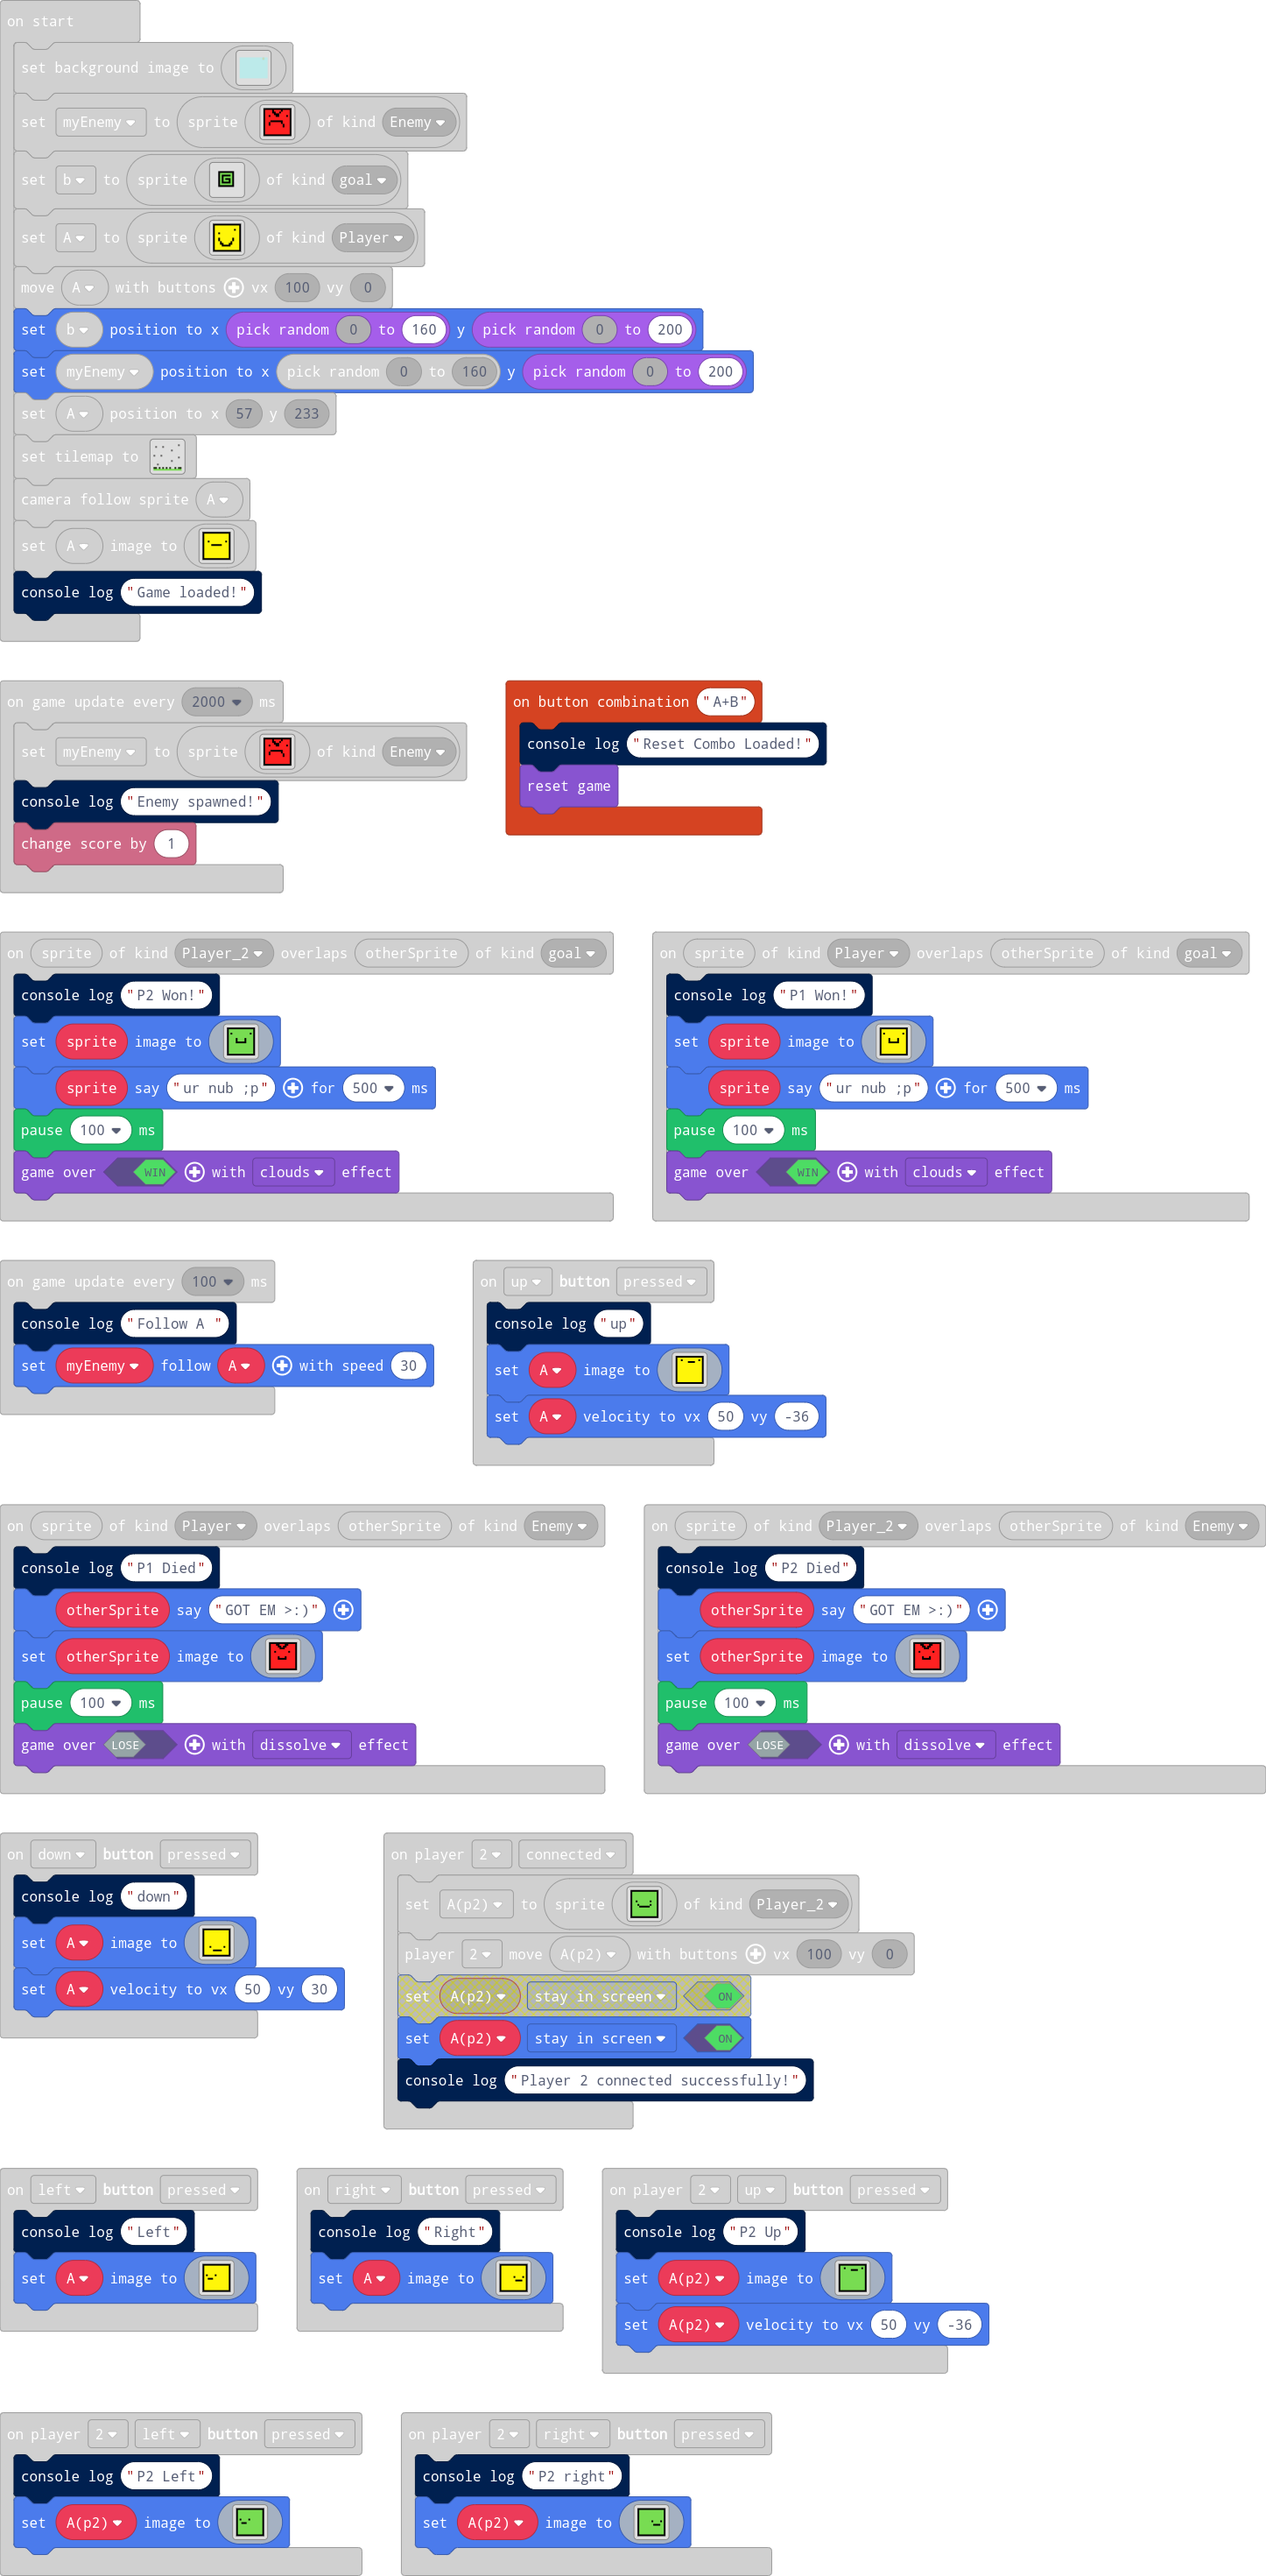
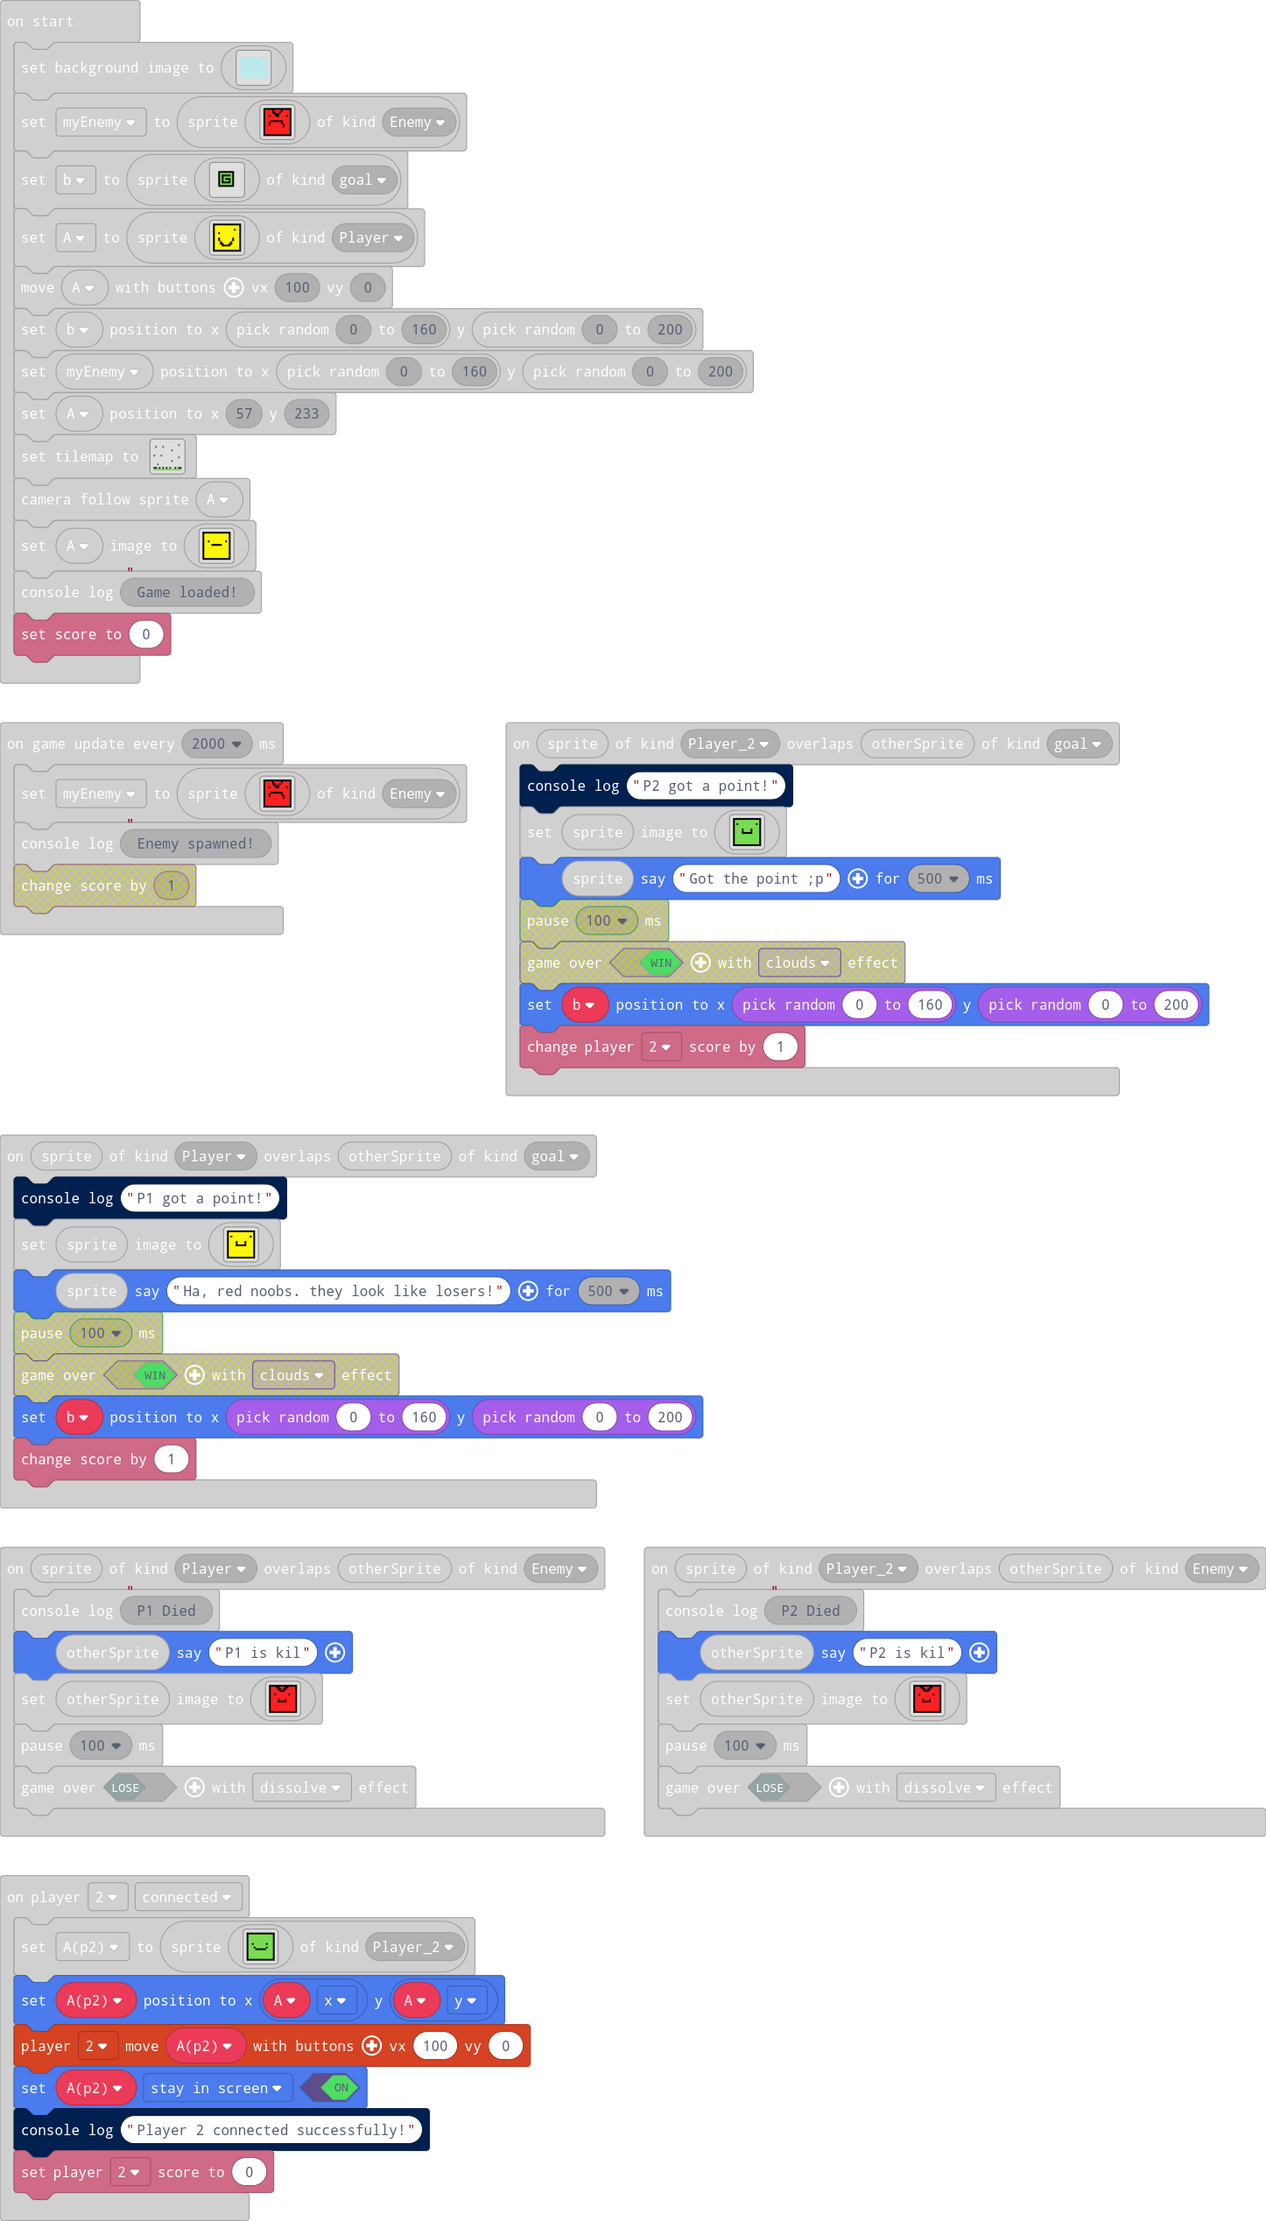
I upgraded the P2 spawning. And modified the old version of the game...

diff --git a/main.ts b/main.ts
@@ -202,9 +202,11 @@ f 7 7 7 7 7 7 7 7 7 7 7 7 7 7 f
 f 7 7 7 7 7 7 7 7 7 7 7 7 7 7 f 
 f f f f f f f f f f f f f f f f 
 `, SpriteKind.Player_2)
+    Ap2.setPosition(A.x, A.y)
     controller.player2.moveSprite(Ap2, 100, 0)
     Ap2.setFlag(SpriteFlag.StayInScreen, true)
     console.log("Player 2 connected successfully!")
+    info.player2.setScore(0)
 })
 controller.combos.attachCombo("A+B", function () {
     console.log("Reset Combo Loaded!")
@@ -212,7 +214,7 @@ controller.combos.attachCombo("A+B", function () {
 })
 sprites.onOverlap(SpriteKind.Player_2, SpriteKind.Enemy, function (sprite, otherSprite) {
     console.log("P2 Died")
-    otherSprite.say("GOT EM >:)")
+    otherSprite.say("P2 is kil")
     otherSprite.setImage(img`
 f f f f f f f f f f f f f f f f 
 f 2 2 2 f f 2 2 2 f f 2 2 2 2 f 
@@ -235,7 +237,7 @@ f f f f f f f f f f f f f f f f
     game.over(false)
 })
 sprites.onOverlap(SpriteKind.Player_2, SpriteKind.goal, function (sprite, otherSprite) {
-    console.log("P2 Won!")
+    console.log("P2 got a point!")
     sprite.setImage(img`
 f f f f f f f f f f f f f f f f 
 f 7 7 7 7 7 7 7 7 7 7 7 7 7 7 f 
@@ -254,9 +256,9 @@ f 7 7 7 7 7 7 7 7 7 7 7 7 7 7 f
 f 7 7 7 7 7 7 7 7 7 7 7 7 7 7 f 
 f f f f f f f f f f f f f f f f 
 `)
-    sprite.say("ur nub ;p")
-    pause(100)
-    game.over(true)
+    sprite.say("Got the point ;p", 500)
+    b.setPosition(Math.randomRange(0, 160), Math.randomRange(0, 200))
+    info.player2.changeScoreBy(1)
 })
 controller.player2.onButtonEvent(ControllerButton.Left, ControllerButtonEvent.Pressed, function () {
     console.log("P2 Left")
@@ -303,7 +305,7 @@ f f f f f f f f f f f f f f f f
 })
 sprites.onOverlap(SpriteKind.Player, SpriteKind.Enemy, function (sprite, otherSprite) {
     console.log("P1 Died")
-    otherSprite.say("GOT EM >:)")
+    otherSprite.say("P1 is kil")
     otherSprite.setImage(img`
 f f f f f f f f f f f f f f f f 
 f 2 2 2 f f 2 2 2 f f 2 2 2 2 f 
@@ -390,7 +392,7 @@ f f f f f f f f f f f f f f f f
     A.setVelocity(50, -36)
 })
 sprites.onOverlap(SpriteKind.Player, SpriteKind.goal, function (sprite, otherSprite) {
-    console.log("P1 Won!")
+    console.log("P1 got a point!")
     sprite.setImage(img`
 f f f f f f f f f f f f f f f f 
 f 5 5 5 5 5 5 5 5 5 5 5 5 5 5 f 
@@ -409,12 +411,13 @@ f 5 5 5 5 5 5 5 5 5 5 5 5 5 5 f
 f 5 5 5 5 5 5 5 5 5 5 5 5 5 5 f 
 f f f f f f f f f f f f f f f f 
 `)
-    sprite.say("ur nub ;p")
-    pause(100)
-    game.over(true)
+    sprite.say("Ha, red noobs. they look like losers!", 500)
+    b.setPosition(Math.randomRange(0, 160), Math.randomRange(0, 200))
+    info.changeScoreBy(1)
 })
 let Ap2: Sprite = null
 let A: Sprite = null
+let b: Sprite = null
 scene.setBackgroundImage(img`
 9 9 9 9 9 9 9 9 9 9 9 9 9 9 9 9 9 9 9 9 9 9 9 9 9 9 9 9 9 9 9 9 9 9 9 9 9 9 9 9 9 9 9 9 9 9 9 9 9 9 9 9 9 9 9 9 9 9 9 9 9 9 9 9 9 9 9 9 9 9 9 9 9 9 9 9 9 9 9 9 9 9 9 9 9 9 9 9 9 9 9 9 9 9 9 9 9 9 9 9 9 9 9 9 9 9 9 9 9 9 9 9 9 9 9 9 9 9 9 9 9 9 9 9 9 9 9 9 9 9 9 9 9 9 9 9 9 9 9 9 9 9 9 9 9 9 9 9 9 9 9 9 9 9 9 9 9 9 9 9 
 9 9 9 9 9 9 9 9 9 9 9 9 9 9 9 9 9 9 9 9 9 9 9 9 9 9 9 9 9 9 9 9 9 9 9 9 9 9 9 9 9 9 9 9 9 9 9 9 9 9 9 9 9 9 9 9 9 9 9 9 9 9 9 9 9 9 9 9 9 9 9 9 9 9 9 9 9 9 9 9 9 9 9 9 9 9 9 9 9 9 9 9 9 9 9 9 9 9 9 9 9 9 9 9 9 9 9 9 9 9 9 9 9 9 9 9 9 9 9 9 9 9 9 9 9 9 9 9 9 9 9 9 9 9 9 9 9 9 9 9 9 9 9 9 9 9 9 9 9 9 9 9 9 9 9 9 9 9 9 9 
@@ -555,7 +558,7 @@ f 2 2 2 2 2 2 2 2 2 2 2 2 2 2 f
 f 2 2 2 2 2 2 2 2 2 2 2 2 2 2 f 
 f f f f f f f f f f f f f f f f 
 `, SpriteKind.Enemy)
-let b = sprites.create(img`
+b = sprites.create(img`
 . . . . . . . . . . . . . . . . 
 . . . . . . . . . . . . . . . . 
 . . . . . . . . . . . . . . . . 
@@ -638,6 +641,7 @@ f 5 5 5 5 5 5 5 5 5 5 5 5 5 5 f
 f f f f f f f f f f f f f f f f 
 `)
 console.log("Game loaded!")
+info.setScore(0)
 game.onUpdateInterval(100, function () {
     console.log("Follow A ")
     myEnemy.follow(A, 30)
@@ -662,5 +666,4 @@ f 2 2 2 2 2 2 2 2 2 2 2 2 2 2 f
 f f f f f f f f f f f f f f f f 
 `, SpriteKind.Enemy)
     console.log("Enemy spawned!")
-    info.changeScoreBy(1)
 })
